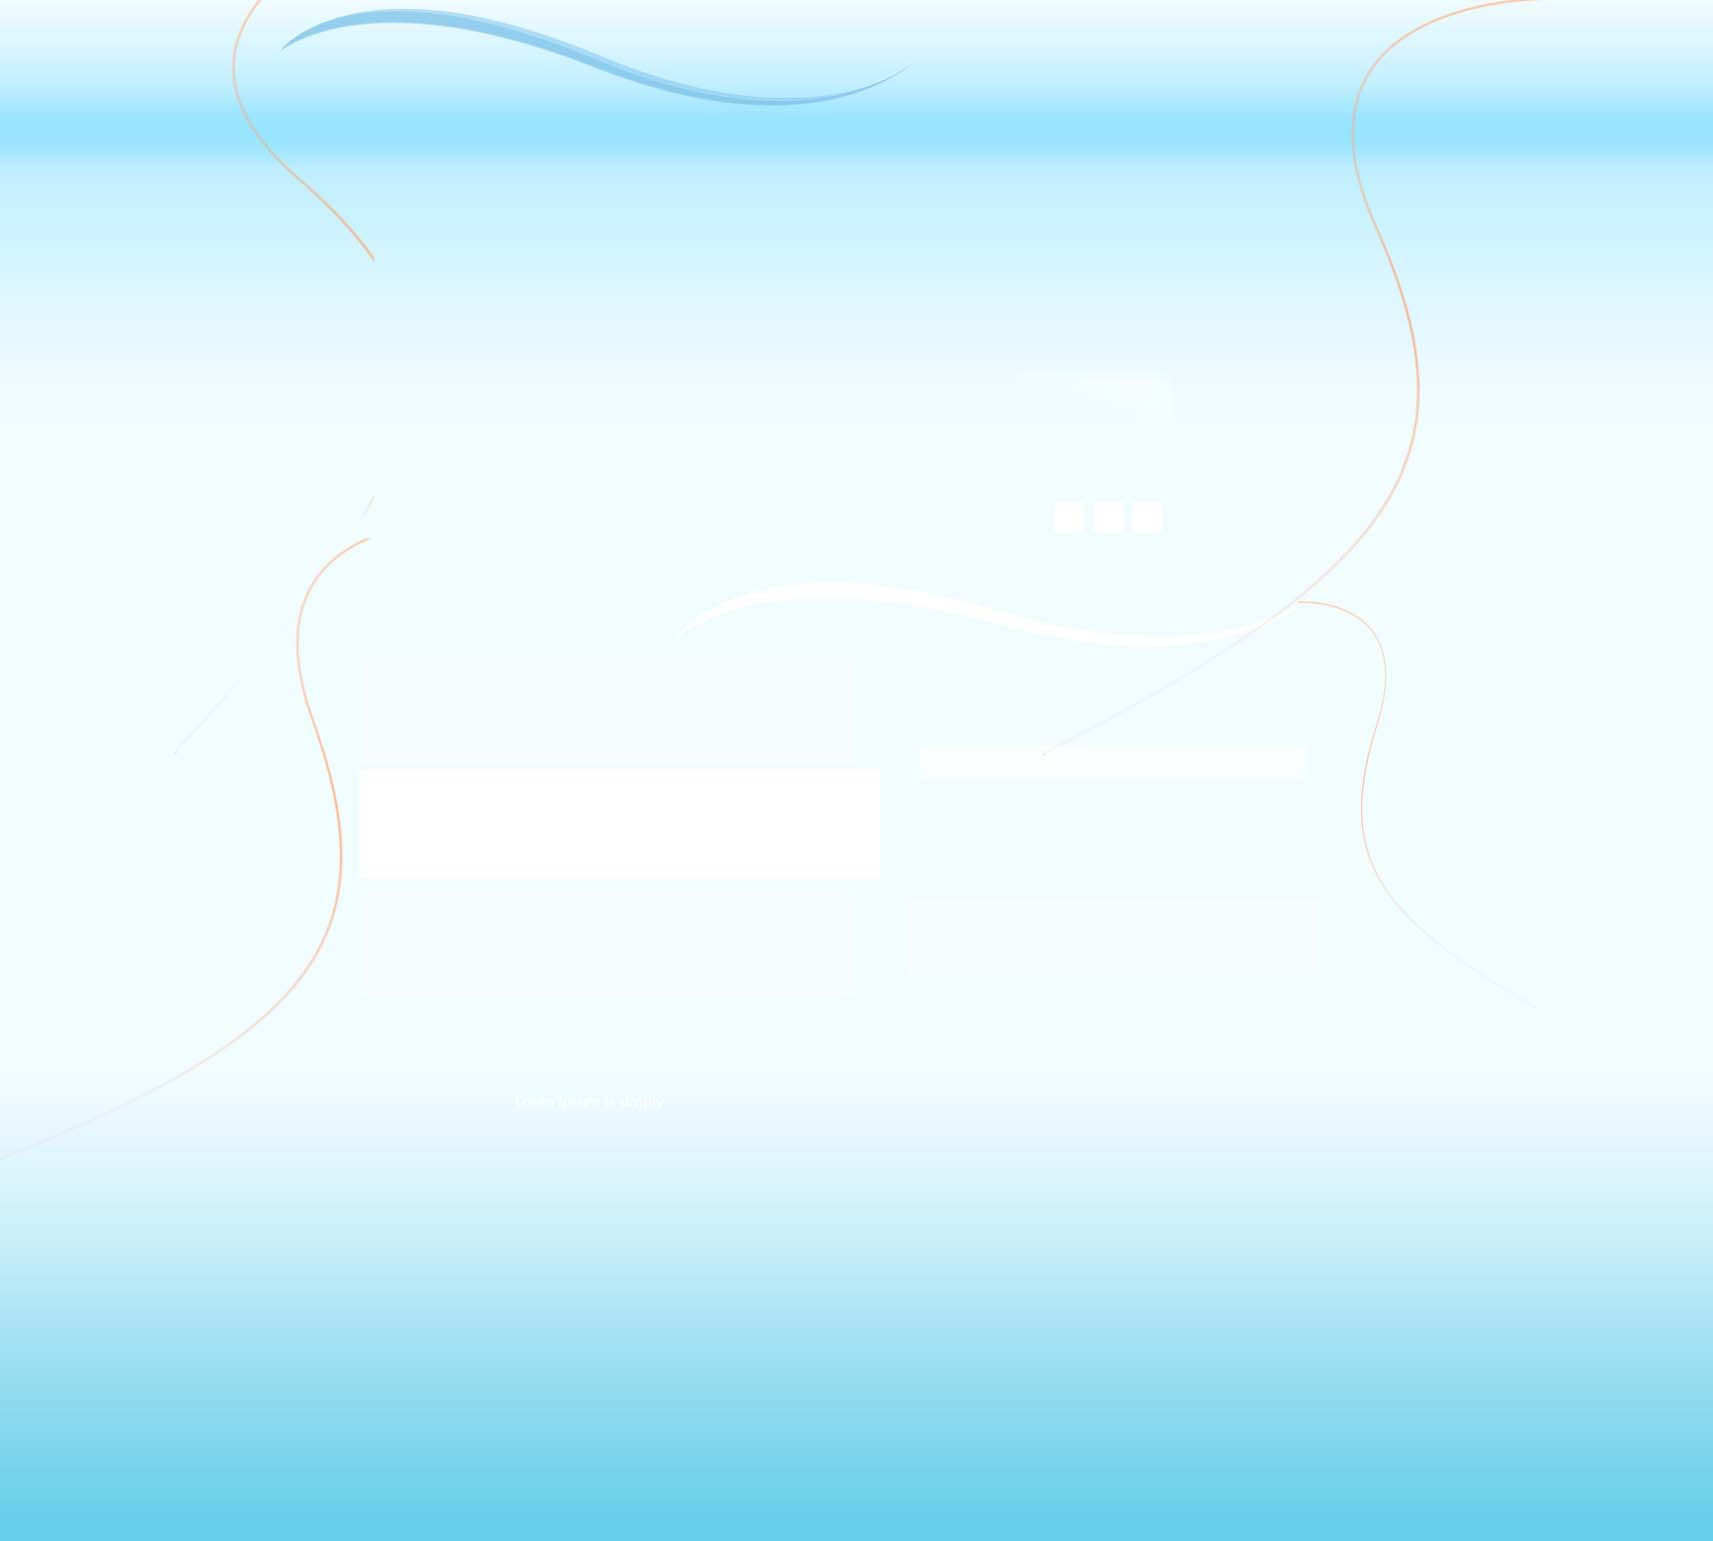
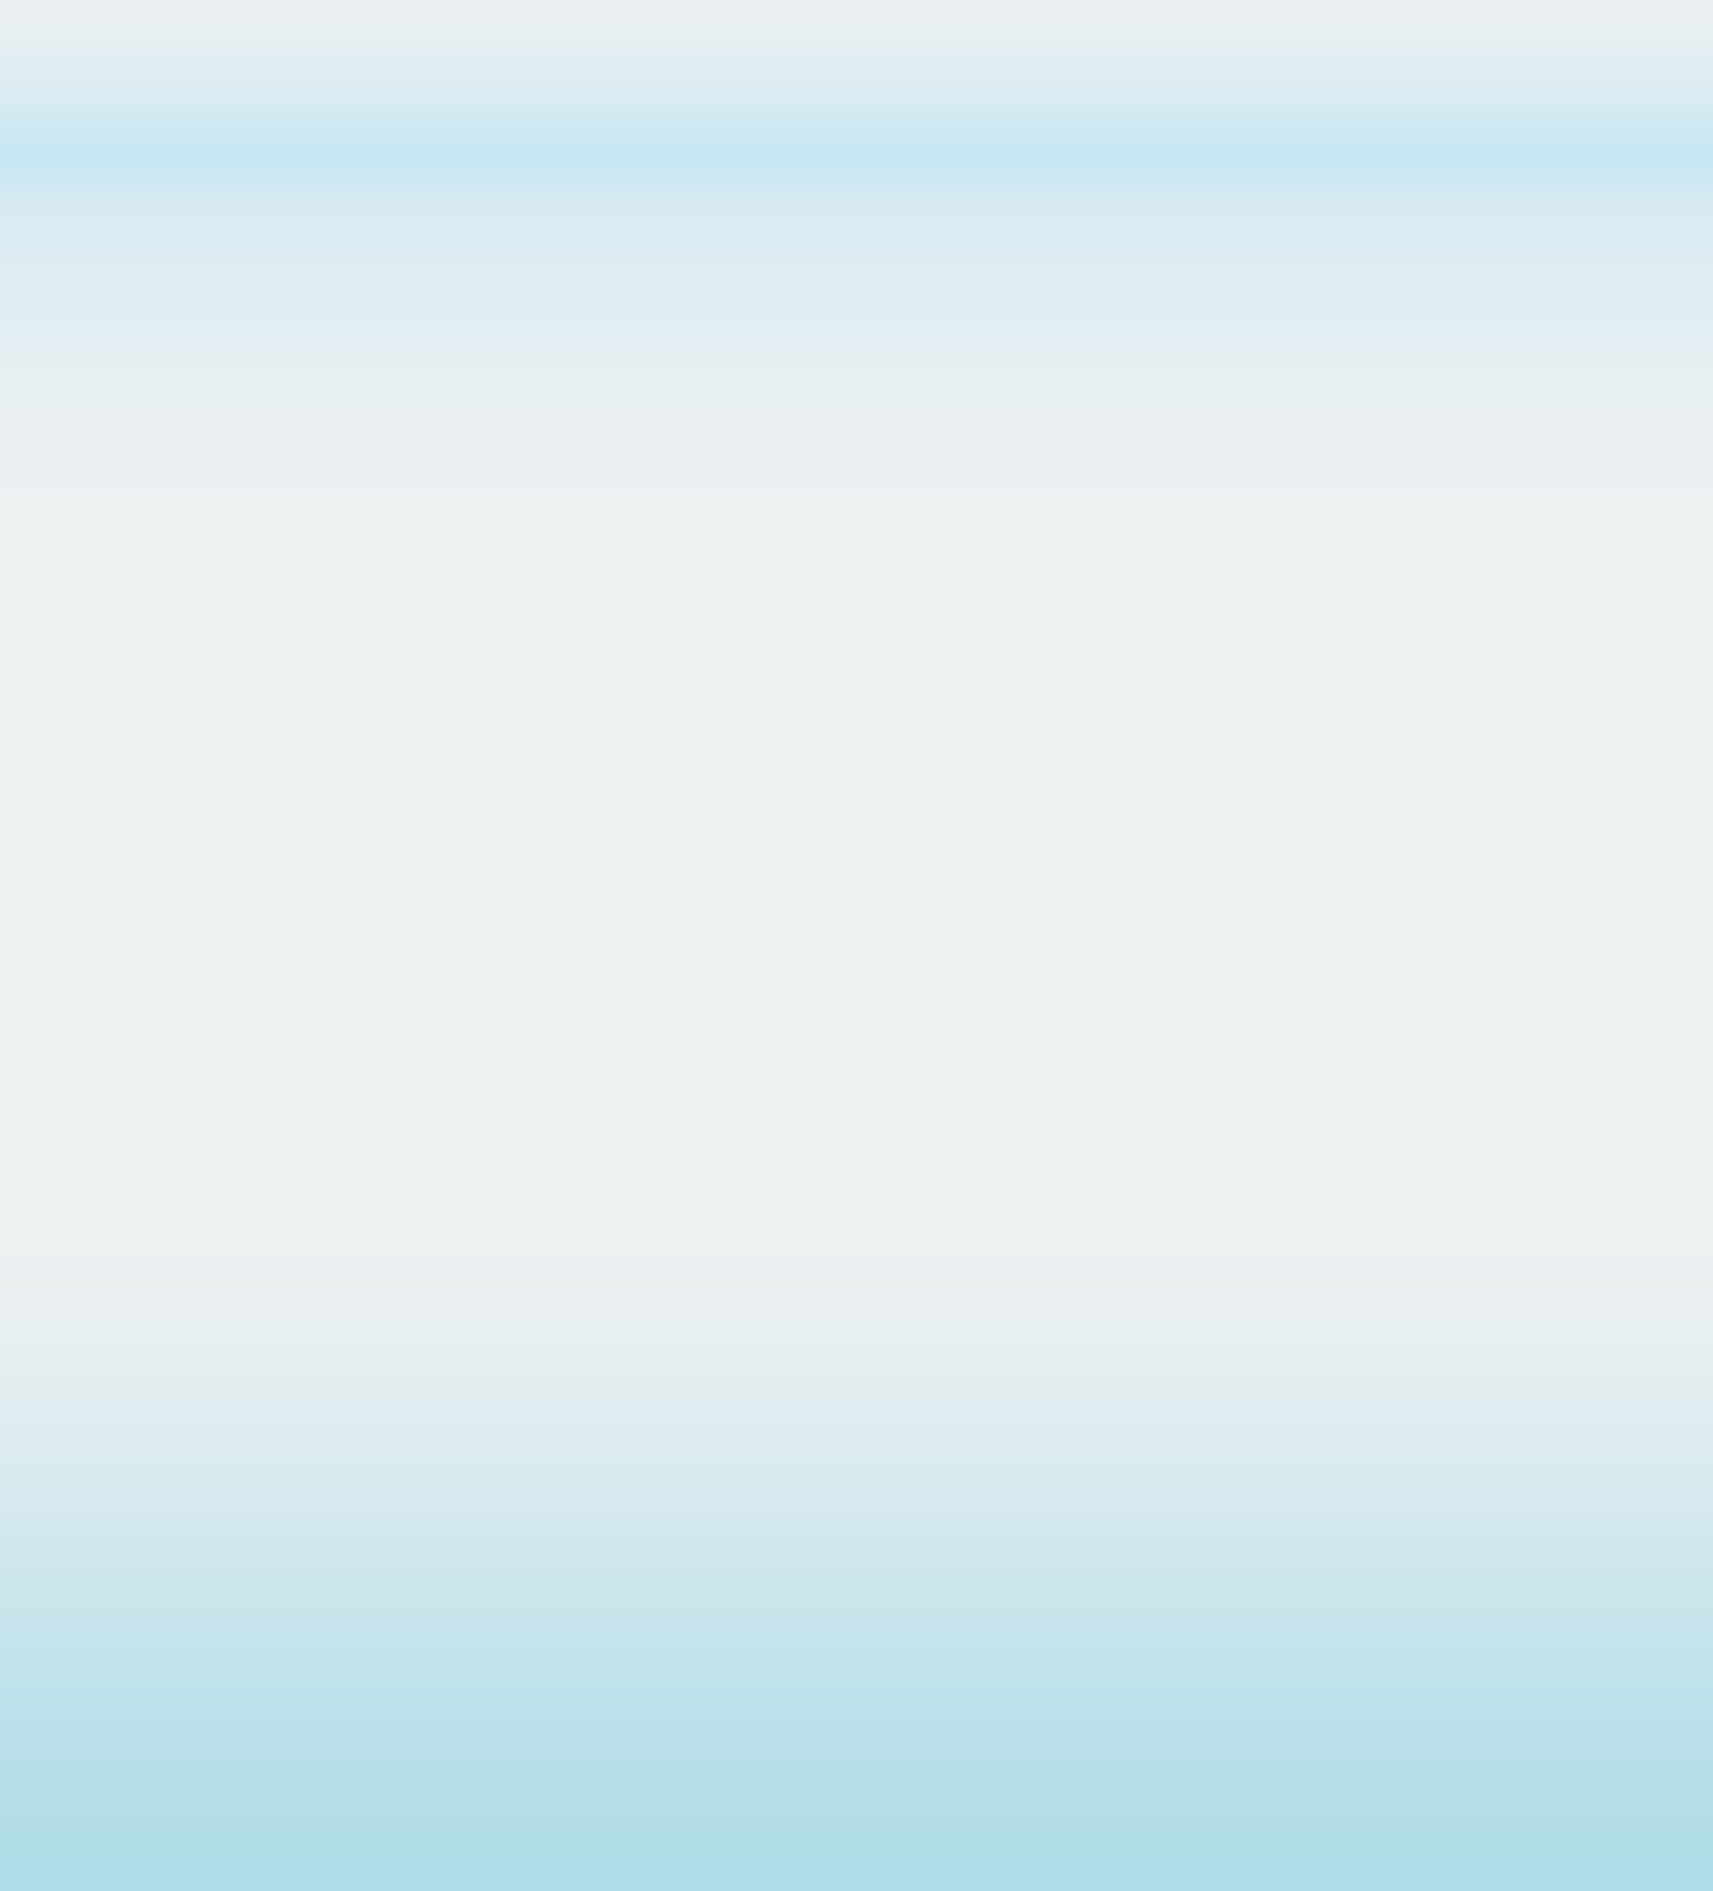
alterações bg home e interna e menu home e interna

Changed region(s): [[0.0, 0.841, 1.0, 1.0], [0.0, 0.0, 1.0, 0.1557]]

diff --git a/public/stylesheets/internal.css b/public/stylesheets/internal.css
@@ -61,7 +61,7 @@ body
 {
 	position:relative;
 	/*background-image:url(../images/bg_home.jpg);*/
-	background-image:url(../images/bg_teste.png);
+	background-image:url(../images/bg_index.jpg);
 	background-repeat:repeat-x;
 	background-position:top center;		
 	width:100%;
@@ -74,16 +74,6 @@ body
 	width:100%;
 	margin:auto;
 }
-#bgCurves
-{
-	width:100%;
-	height:100%;
-	background-image:url(../images/curves.png);
-	background-repeat:no-repeat;
-	background-position:top center;
-		
-}
-
 #General
 {
 	position:relative;

diff --git a/public/stylesheets/template.css b/public/stylesheets/template.css
@@ -74,14 +74,6 @@ body
 	width:100%;
 	margin:auto;
 }
-#bgCurves
-{
-	width:100%;
-	height:100%;
-	background-image:url(../images/curves.png);
-	background-repeat:no-repeat;
-	background-position:top center;	
-}
 
 #General
 {
